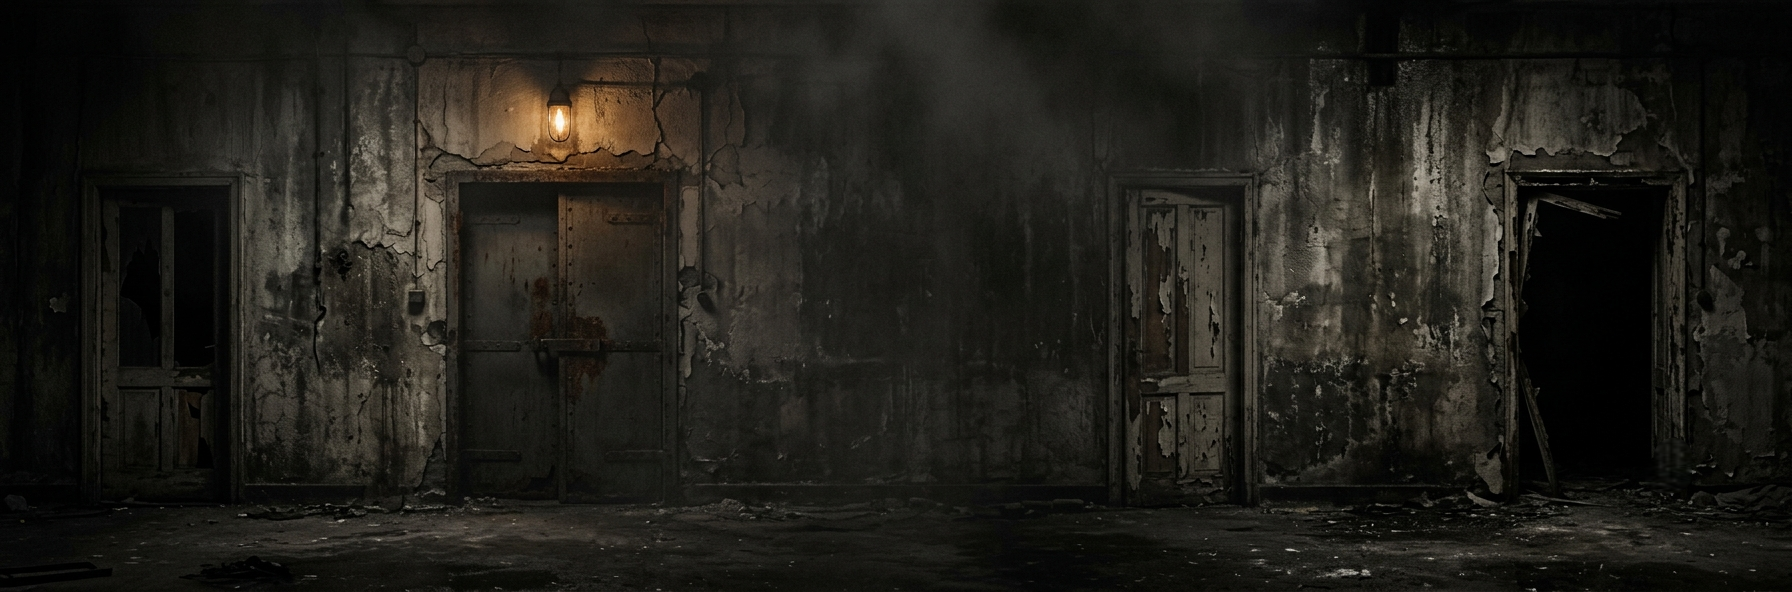
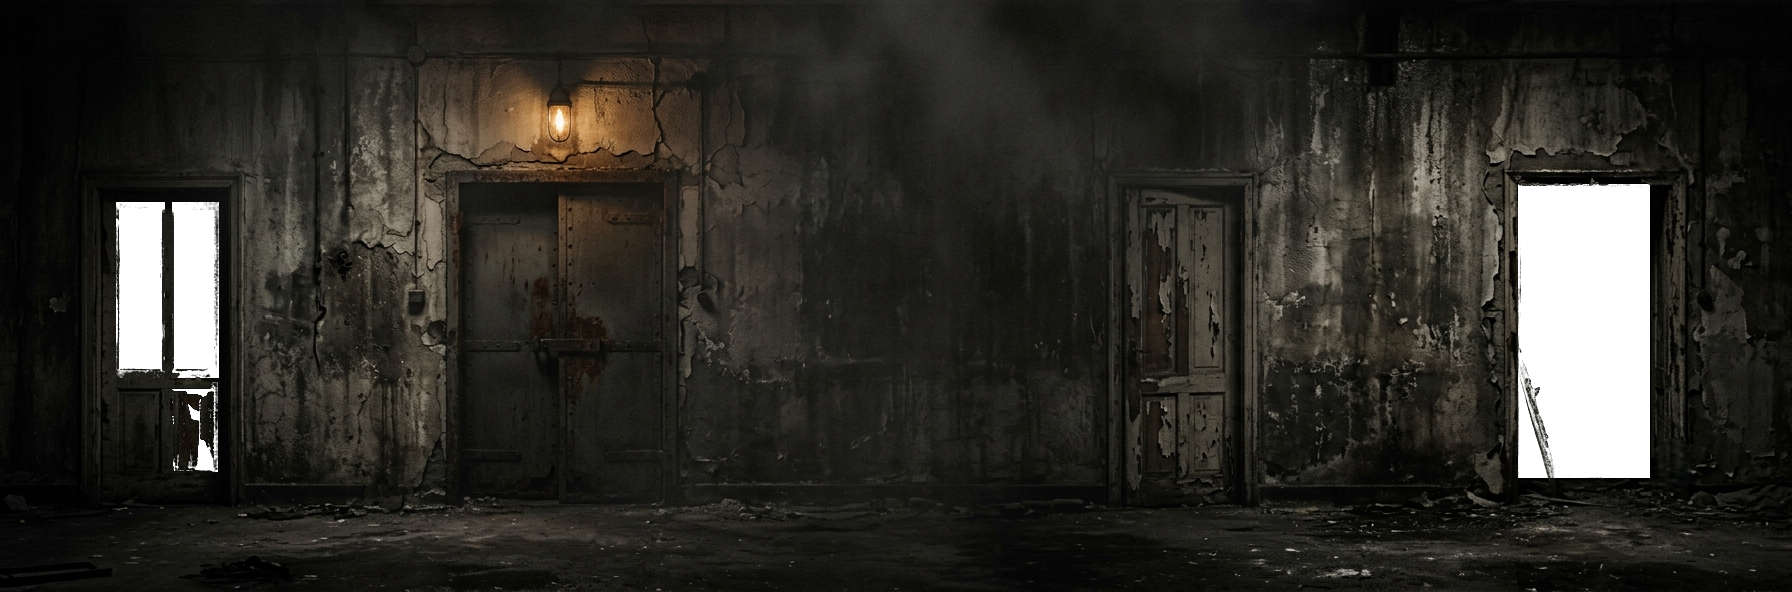
Update

Changed region(s): [[0.8438, 0.3041, 0.9375, 0.8209], [0.0625, 0.3345, 0.125, 0.8209]]

diff --git a/dreamer.html b/dreamer.html
@@ -211,6 +211,26 @@
       }
     }
 
+    /* Cobre so a camada dos quartos, porque a parede e desenhada depois.
+       O furo acompanha a lanterna; fora dele o comodo nao existe. */
+    .veu {
+      position: absolute;
+      inset: 0;
+      pointer-events: none;
+      background: radial-gradient(circle at var(--lx, -999px) var(--ly, -999px),
+          transparent 0px,
+          transparent 14px,
+          rgba(4, 5, 10, 0.6) 48px,
+          #04050a 96px);
+    }
+
+    /* Sem ponteiro nao ha o que revelar: o comodo fica apenas rebaixado. */
+    @media (hover: none) {
+      .veu {
+        background: rgba(4, 5, 10, 0.74);
+      }
+    }
+
     .dust {
       position: absolute;
       inset: 0;
@@ -1075,6 +1095,7 @@
 
   <div class="stage" aria-hidden="true">
     <div class="scene" id="scene">
+      <div class="veu" id="veu" aria-hidden="true"></div>
       <canvas class="dust" id="dust" aria-hidden="true"></canvas>
       <div class="lume" id="lume" aria-hidden="true"></div>
       <div class="markers" id="markers"></div>
@@ -1161,11 +1182,11 @@
 
       // A peca se repete, entao o percurso independe do tamanho do arquivo.
       const CENA = {
-        depths: [0.6, 1],                              // velocidade de cada camada
-        ancora: 0,                                     // camada a que os fragmentos pertencem
-        poeiraAtras: 1,                                // camada que passa na frente da poeira
-        lampada: { camada: 0, x: 0.313, y: 0.209 },     // posicao da luz dentro da peca
-        files: ["a-fundo.png", "a-frente.png"],
+        depths: [0.6, 0.6, 1],                         // velocidade de cada camada
+        ancora: 1,                                     // camada a que os fragmentos pertencem
+        poeiraAtras: 2,                                // camada que passa na frente da poeira
+        lampada: { camada: 1, x: 0.313, y: 0.209 },    // posicao da luz dentro da peca
+        files: ["a-quartos.png", "a-fundo.png", "a-frente.png"],
         reach: 5,                                      // larguras de tela de percurso
         span: 6,                                       // alturas de tela de rolagem
         hint: "role para percorrer"
@@ -1191,6 +1212,7 @@
         lyric: document.getElementById("lyric"),
         dust: document.getElementById("dust"),
         lume: document.getElementById("lume"),
+        veu: document.getElementById("veu"),
         ponta: document.getElementById("ponta"),
         scrub: document.getElementById("scrub")
       };
@@ -1656,6 +1678,8 @@
           viva = false;
           el.lume.classList.remove("on");
           el.ponta.classList.remove("on");
+          el.veu.style.removeProperty("--lx");
+          el.veu.style.removeProperty("--ly");
         });
 
         return {
@@ -1673,6 +1697,8 @@
             x += (alvoX - x) * k;
             y += (alvoY - y) * k;
             el.lume.style.transform = "translate3d(" + x.toFixed(1) + "px," + y.toFixed(1) + "px,0)";
+            el.veu.style.setProperty("--lx", x.toFixed(0) + "px");
+            el.veu.style.setProperty("--ly", y.toFixed(0) + "px");
           }
         };
       })();
@@ -1700,6 +1726,8 @@
           el.scene.insertBefore(el.dust, frente.node);
           el.scene.insertBefore(el.lume, frente.node);
         }
+        const parede = app.layers[CENA.ancora];
+        if (parede) el.scene.insertBefore(el.veu, parede.node);
 
         el.track.style.height = (CENA.span * 100) + "vh";
         el.hint.textContent = CENA.hint;
